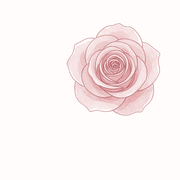
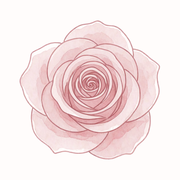
Drop the Song Hy character and the Ut Nam / Truong Nu lines, centre the rose sprig and emblem art

diff --git a/index.html b/index.html
@@ -128,7 +128,6 @@
         <canvas class="petals" id="petals" aria-hidden="true"></canvas>
 
         <div class="hero__inner">
-          <p class="hy hero__hy" data-reveal="fade" aria-hidden="true">囍</p>
           <p class="hero__eyebrow" data-reveal="fade">Save the date</p>
           <h1 class="hero__names">
             <span class="hero__name" data-split>Hoàng Lân</span>
@@ -212,11 +211,10 @@
             </figure>
             <p class="person__role">Chú rể</p>
             <h3 class="person__name">Hoàng Lân</h3>
-            <p class="person__meta">Út Nam</p>
           </article>
 
           <div class="pair__amp" aria-hidden="true">
-            <span class="hy">囍</span>
+            <span class="pair__and">&amp;</span>
           </div>
 
           <article class="person" data-reveal="rise">
@@ -228,7 +226,6 @@
             </figure>
             <p class="person__role">Cô dâu</p>
             <h3 class="person__name">Trần Kim Thanh</h3>
-            <p class="person__meta">Trưởng Nữ</p>
           </article>
         </div>
       </section>
@@ -242,7 +239,7 @@
 
         <div class="card3d" data-reveal="card">
           <div class="card3d__inner">
-            <p class="hy card__hy" aria-hidden="true">囍</p>
+            <p class="card__mono" aria-hidden="true">L<em>&amp;</em>T</p>
             <div class="card__families">
               <div class="family">
                 <p class="family__title">Nhà Trai</p>

diff --git a/src/styles/sections-couple.css b/src/styles/sections-couple.css
@@ -54,15 +54,7 @@
   margin-top: 0.2rem;
 }
 
-.person__meta {
-  font-size: 0.78rem;
-  letter-spacing: 0.2em;
-  text-transform: uppercase;
-  color: var(--ink-3);
-  margin-top: 0.25rem;
-}
-
-/* Giữa hai người: chữ Song Hỷ nằm trong vòng hoa hồng (vòng hoa ở ornaments.css) */
+/* Giữa hai người: dấu & nằm trong vòng hoa hồng (vòng hoa ở ornaments.css) */
 .pair__amp {
   display: grid;
   place-items: center;
@@ -71,8 +63,11 @@
   margin-inline: auto;
 }
 
-.pair__amp .hy {
-  font-size: 2.9rem;
+.pair__and {
+  font-family: var(--script);
+  font-size: 3rem;
+  line-height: 1;
+  color: var(--accent-2);
 }
 
 @media (min-width: 860px) {
@@ -118,10 +113,23 @@
   pointer-events: none;
 }
 
-.card__hy {
-  position: relative;
-  font-size: clamp(2.4rem, 1.9rem + 2vw, 3.2rem);
-  margin-bottom: 1.4rem;
+/* chữ lồng tên viết tắt ở đầu thiệp, nằm giữa vòng hoa hồng */
+.card__mono {
+  display: flex;
+  align-items: center;
+  justify-content: center;
+  font-family: var(--serif);
+  font-size: clamp(1.5rem, 1.2rem + 1.2vw, 1.9rem);
+  letter-spacing: 0.08em;
+  line-height: 1;
+  color: var(--accent);
+}
+
+.card__mono em {
+  font-family: var(--script);
+  font-style: normal;
+  color: var(--blush-2);
+  margin-inline: 0.06em;
 }
 
 .card__families {

diff --git a/src/styles/ornaments.css b/src/styles/ornaments.css
@@ -55,16 +55,16 @@
   pointer-events: none;
 }
 
-/* Vòng hoa hồng ôm chữ Song Hỷ: giữa hai người và trên đầu tấm thiệp.
+/* Vòng hoa hồng ôm dấu & giữa hai người và chữ lồng L&T trên đầu tấm thiệp.
    isolation giữ vòng hoa nằm sau chữ nhưng vẫn trên nền thiệp. */
 .pair__amp,
-.card__hy {
+.card__mono {
   position: relative;
   isolation: isolate;
 }
 
 .is-open .pair__amp::before,
-.is-open .card__hy::before {
+.is-open .card__mono::before {
   content: '';
   position: absolute;
   z-index: -1;
@@ -74,13 +74,13 @@
   pointer-events: none;
 }
 
-.card__hy {
+.card__mono {
   width: clamp(104px, 22vw, 128px);
   height: clamp(104px, 22vw, 128px);
   margin: 0.6rem auto 2rem;
 }
 
-.is-open .card__hy::before {
+.is-open .card__mono::before {
   inset: -14%;
   opacity: 0.75;
 }

diff --git a/src/styles/base.css b/src/styles/base.css
@@ -214,23 +214,6 @@ section[id] {
   background-position: left center, right center;
 }
 
-/* Chữ Song Hỷ (囍): dấu hiệu hỷ sự tân hôn, tô vàng hồng.
-   Phông CJK có sẵn trên mọi hệ điều hành; chỉ là trang trí nên ẩn với trình đọc màn hình. */
-.hy {
-  display: inline-grid;
-  place-items: center;
-  font-family: 'Noto Serif SC', 'Noto Serif CJK SC', 'Songti SC', 'STSong', 'SimSun', 'PingFang SC',
-    'Microsoft YaHei', serif;
-  font-weight: 700;
-  font-style: normal;
-  line-height: 1;
-  color: var(--gold);
-  background: linear-gradient(160deg, #a0654f 0%, #d9b096 40%, #b07a62 60%, #8e5444 100%);
-  -webkit-background-clip: text;
-  background-clip: text;
-  -webkit-text-fill-color: transparent;
-}
-
 .h2 {
   font-family: var(--serif);
   font-weight: 500;

diff --git a/src/styles/sections.css b/src/styles/sections.css
@@ -50,15 +50,6 @@
   mix-blend-mode: soft-light;
 }
 
-.hero__hy {
-  font-size: clamp(2rem, 1.4rem + 2.4vw, 3rem);
-  margin-bottom: clamp(0.7rem, 2vw, 1.1rem);
-  background: linear-gradient(160deg, #f6dccb 0%, #fff4ec 45%, #eec4b0 70%, #d9a58f 100%);
-  -webkit-background-clip: text;
-  background-clip: text;
-  filter: drop-shadow(0 2px 10px rgba(62, 34, 44, 0.35));
-}
-
 /* canvas là replaced element: inset:0 không kéo giãn được, phải cho width/height */
 .petals {
   position: absolute;

diff --git a/scripts/shots.ts b/scripts/shots.ts
@@ -134,7 +134,7 @@ async function contrast(page: Page): Promise<string[]> {
       '.card__when p',
       '.tl__addr',
       '.rsvp__note',
-      '.person__meta',
+      '.card__role',
       '.family__addr',
       '.footer__thanks',
       '.eyebrow',

diff --git a/README.md b/README.md
@@ -103,7 +103,8 @@ Endpoint nhận `POST` JSON: `{ name, side, attend, guests, wish, at }`.
 `public/art/*.webp` là tranh màu nước do Krea 2 vẽ (hoa hồng phấn và hồng trắng, vòng hoa, dải hoa,
 cánh hồng rơi, dấu sáp hồng ngọc trai), đã tách nền trong suốt bằng
 `out/auto-warband-art/tools/wedding-rose-cutout.py` (job `jobs/wedding-rose.json`).
-Chữ Song Hỷ 囍 (hero, giữa cô dâu chú rể, đầu tấm thiệp) là chữ tô vàng hồng bằng CSS (`.hy`), không phải ảnh. Bản gốc nằm ở `assets-src/art/`. Vẽ lại hoặc thay tranh thì chép vào
+Script đó cắt viền theo nét đậm (vệt màu nước nhạt không tính) để nhành hồng, biểu tượng hoa nằm đúng giữa ảnh,
+và dời dải hoa cho bông hồng giữa nằm đúng trục giữa. Bản gốc nằm ở `assets-src/art/`. Vẽ lại hoặc thay tranh thì chép vào
 `assets-src/art/` đúng tên rồi chạy:
 
 ```bash
